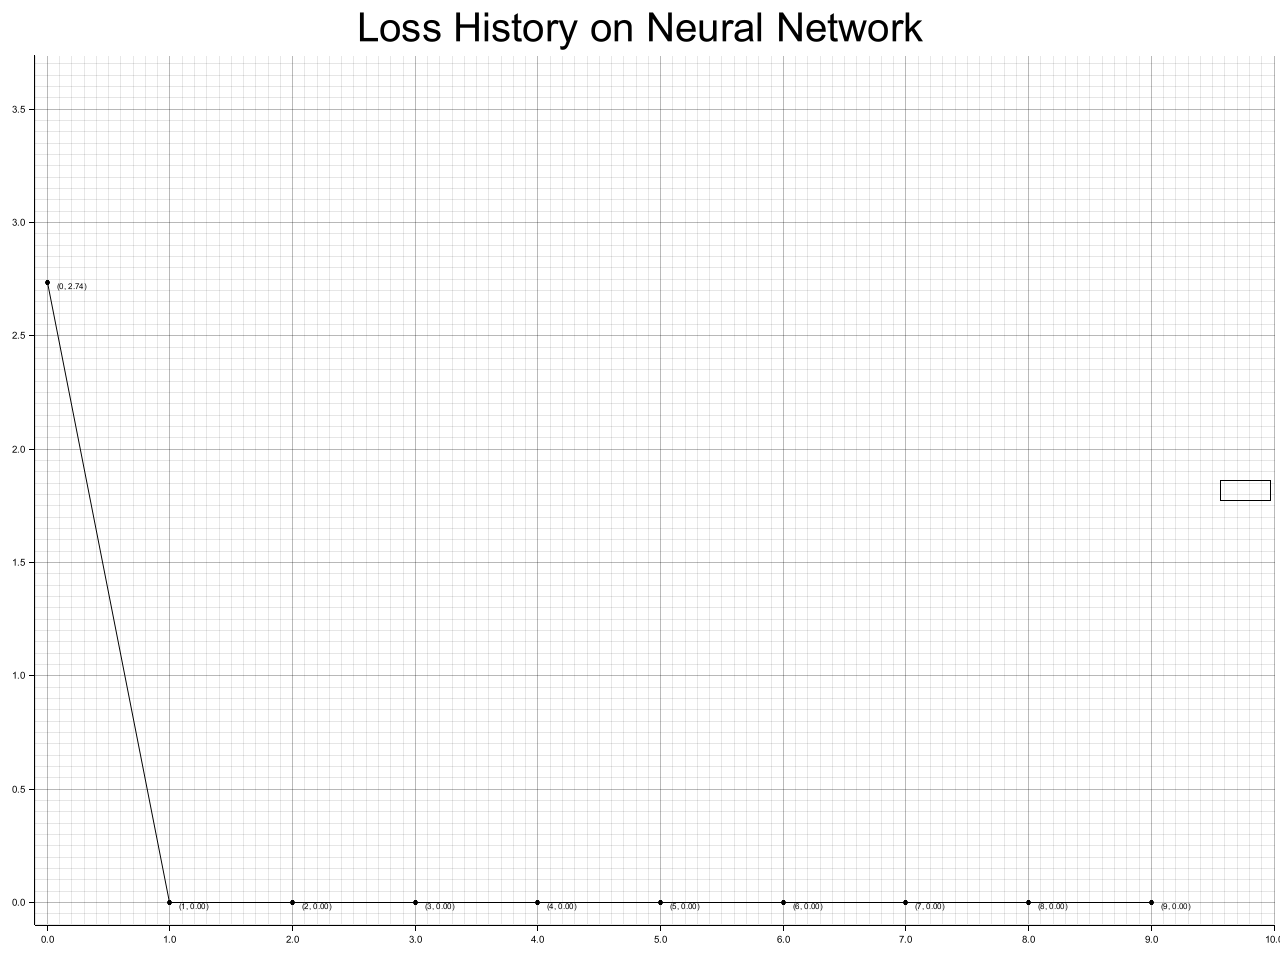
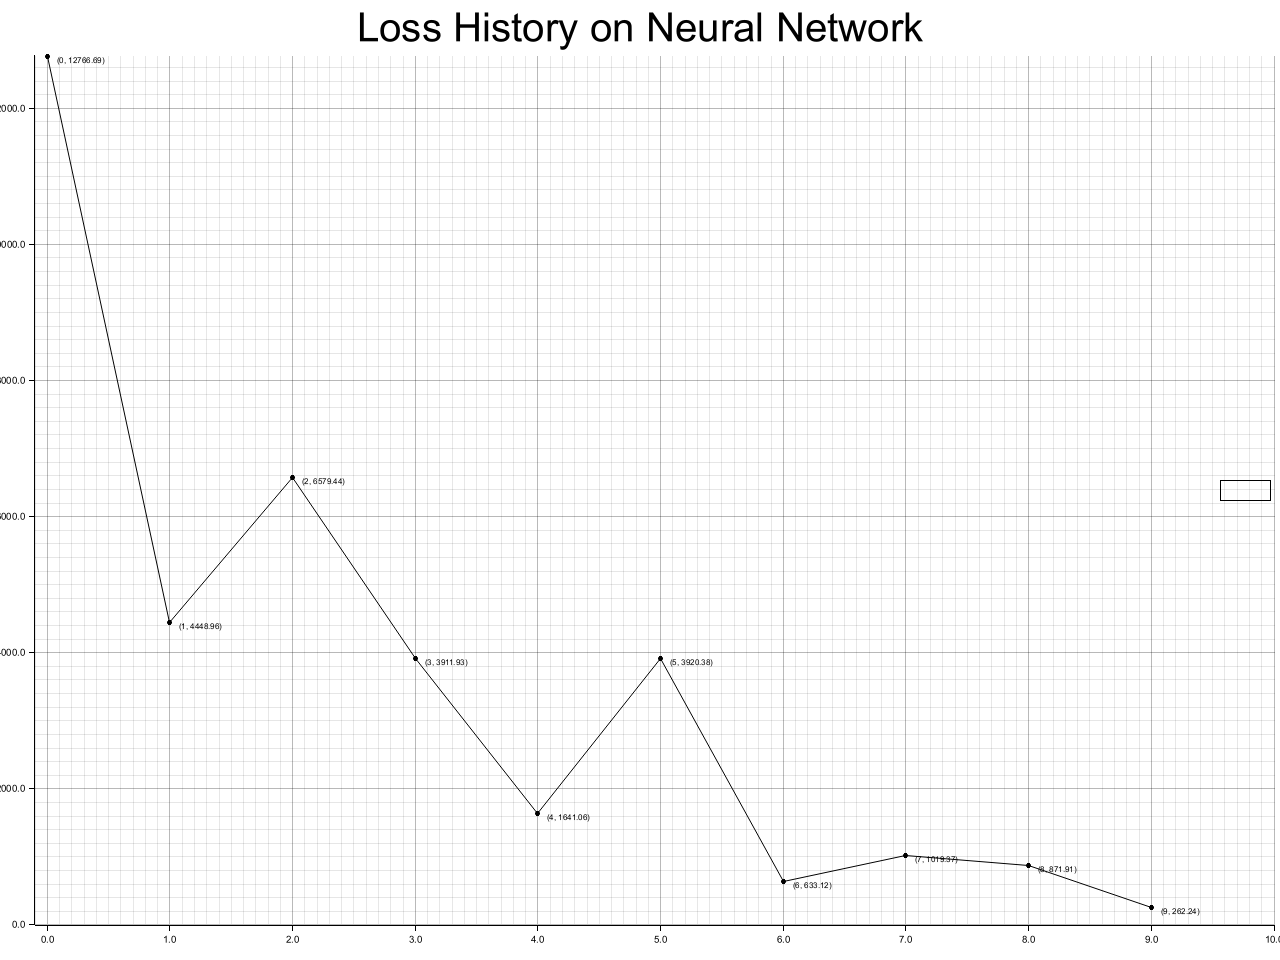
Added SOFTMAX

Changed region(s): [[0.0, 0.0625, 1.0, 0.9688]]

diff --git a/src/network/activations.rs b/src/network/activations.rs
@@ -1,6 +1,8 @@
 use std::f32::consts::E;
 use serde::{Deserialize, Serialize};
 
+use super::{matrix::Matrix, input::Input};
+
 #[derive(Clone)]
 pub struct Activation<'a>{
     pub function: &'a dyn Fn(f32) -> f32,
@@ -12,15 +14,46 @@ pub enum Activations{
     SIGMOID,
     TANH,
     RELU,
-    LEAKYRELU
+    LEAKYRELU,
+    SOFTMAX
 }
 impl Activations{
-    pub fn get_function(&self) -> Activation{
+    fn get_function(&self) -> Option<Activation>{
         return match self{
-            Activations::SIGMOID => SIGMOID,
-            Activations::TANH => TANH,
-            Activations::RELU => RELU,
-            Activations::LEAKYRELU => LEAKY_RELU
+            Activations::SIGMOID => Some(SIGMOID),
+            Activations::TANH => Some(TANH),
+            Activations::RELU => Some(RELU),
+            Activations::LEAKYRELU => Some(LEAKY_RELU),
+            _ => None
+        };
+    }
+    pub fn apply_fn(&self, mut data: Matrix) -> Matrix {
+        match self{
+            Activations::SIGMOID | Activations::TANH | Activations::RELU | Activations::LEAKYRELU => {
+                return data.map(self.get_function().unwrap().function);
+            },
+            Activations::SOFTMAX => { 
+                let exp_logits: Vec<f32> = data.to_param()
+                    .iter()
+                    .map(|&x| x.exp()).collect();
+                let sum_exp: f32 = exp_logits.iter().sum();
+                return Matrix::from_sized(exp_logits.iter().map(|x| x / sum_exp).collect::<Vec<f32>>(), data.rows, data.columns)
+            }
+        };
+    }
+    pub fn apply_derivative(&self, mut data: Matrix) -> Matrix {
+        match self{
+            Activations::SIGMOID | Activations::TANH | Activations::RELU | Activations::LEAKYRELU => {
+                return data.map(self.get_function().unwrap().derivative);
+            },
+            Activations::SOFTMAX => { 
+                let softmax_output = data.to_param()
+                    .iter()
+                    .zip(data.to_param().iter().map(|&x| 1.0 - x))
+                    .map(|(s,ds)| s * ds)
+                    .collect();
+                return Matrix::from_sized(softmax_output, data.rows, data.columns);
+            }
         };
     }
 }

diff --git a/src/main.rs b/src/main.rs
@@ -4,6 +4,7 @@ use triton_grow::{network::{network::Network, activations::Activations, layer::{
 fn main() {
     //Convolutional Example
     //
+    /*
     let mut inputs: Vec<&dyn Input> = vec![];
     let mut outputs: Vec<Vec<f32>>;
     let mut true_outputs: Vec<Vec<f32>> = vec![];
@@ -16,12 +17,12 @@ fn main() {
     println!("Done Generating MNIST");
 
     outputs = to_categorical(outputs_uncat);
-    for i in 0..3{
+    for i in 0..5{
         inputs.push(&inputs_undyn[i]);
         true_outputs.push(outputs[i].clone());
     }
 
-    let mut network = Network::new(2);
+    let mut network = Network::new(5);
 
     network.add_layer(LayerTypes::DENSE(784, Activations::RELU, 0.1));
     network.add_layer(LayerTypes::DENSE(64, Activations::RELU, 0.1));
@@ -32,14 +33,14 @@ fn main() {
 
     network.fit(&inputs, &true_outputs, 10);
     for i in 0..inputs.len(){
-        println!("{:?}", network.predict(inputs[i]));
+        println!("predicted: {:?} \n\n actual: {:?}\n", network.predict(inputs[i]), true_outputs[i]);
     }
 
     network.plot_loss_history("mnist_loss.png");
-    
+    */
     //Dense Example
     //
-    /*let mut inputs: Vec<&dyn Input> = vec![];
+    let mut inputs: Vec<&dyn Input> = vec![];
     let input_1 = vec![1.0,1.0];
     let input_2 = vec![vec![0.0], vec![1.0]];
     let input_3 = Matrix::from(vec![vec![1.0],vec![0.0]]);
@@ -56,7 +57,7 @@ fn main() {
 
     new_net.add_layer(LayerTypes::DENSE(2, Activations::SIGMOID, 0.1));
     new_net.add_layer(LayerTypes::DENSE(3, Activations::SIGMOID, 0.1));
-    new_net.add_layer(LayerTypes::DENSE(1, Activations::SIGMOID, 0.1));
+    new_net.add_layer(LayerTypes::DENSE(1, Activations::SOFTMAX, 0.1));
 
     //new_net.set_seed("teller");
     //new_net.set_seed("I said");
@@ -67,5 +68,5 @@ fn main() {
     println!("1 and 0: {:?}", new_net.predict(&vec![1.0,0.0])[0]);
     println!("0 and 1: {:?}", new_net.predict(&vec![0.0,1.0])[0]);
     println!("1 and 1: {:?}", new_net.predict(&vec![1.0,1.0])[0]);
-    println!("0 and 0: {:?}", new_net.predict(&vec![0.0,0.0])[0]);*/
+    println!("0 and 0: {:?}", new_net.predict(&vec![0.0,0.0])[0]);
 }

diff --git a/src/network/layer/dense.rs b/src/network/layer/dense.rs
@@ -31,7 +31,7 @@ pub struct Dense{
 impl Dense{
     pub fn new(layers: usize, layer_cols_before: usize, activation: Activations, learning_rate: f32, seed: &Option<String>, input_size: usize) -> Dense{
         let distribution: Distributions = match activation{
-            Activations::RELU | Activations::LEAKYRELU => Distributions::He(input_size),
+            Activations::RELU | Activations::LEAKYRELU | Activations::SOFTMAX => Distributions::He(input_size),
             Activations::TANH | Activations::SIGMOID => Distributions::Xavier(input_size, layers),
         };
         let mut res = Dense { 
@@ -75,8 +75,7 @@ impl Layer for Dense{
     ///Moves the DNN forward through the weights and biases of this current layer
     ///Maps an activation function and then returns the resultant Matrix
     fn forward(&mut self, inputs: &Box<dyn Input>) -> Box<dyn Input> {
-        self.data = (self.weights.clone() * &Matrix::from(inputs.to_param().to_param_2d()).transpose() + &self.biases)
-            .map(self.activation_fn.get_function().function);
+        self.data = self.activation_fn.apply_fn(self.weights.clone() * &Matrix::from(inputs.to_param().to_param_2d()).transpose() + &self.biases);
 
         Box::new(self.data.clone().transpose())
     }
@@ -124,7 +123,7 @@ impl Layer for Dense{
     }
 
     fn update_gradient(&self) -> Box<dyn Input> {
-        Box::new(self.data.clone().map(self.activation_fn.get_function().derivative))
+        Box::new(self.activation_fn.apply_fn(self.data.clone()))
     }
 
     /*fn backward(&mut self, inputs: &Matrix, gradients: &Matrix, errors: &Matrix, layer_prev: &Matrix, layer_prev_bias: &Matrix) -> (Matrix, Matrix, Matrix, Matrix){

diff --git a/src/network/layer/conv.rs b/src/network/layer/conv.rs
@@ -31,7 +31,7 @@ pub struct Convolutional{
 impl Convolutional{
     pub fn new(filters: usize, kernel_size: (usize, usize), input_shape: (usize, usize, usize), stride: usize, activation_fn: Activations, learning_rate: f32, seed: &Option<String>, input_size: usize) -> Convolutional {
         let distribution = match activation_fn {
-            Activations::TANH | Activations::SIGMOID => Distributions::Xavier(input_size, kernel_size.0 * kernel_size.1),
+            Activations::TANH | Activations::SIGMOID | Activations::SOFTMAX => Distributions::Xavier(input_size, kernel_size.0 * kernel_size.1),
             Activations::RELU | Activations::LEAKYRELU => Distributions::He(input_size)
         };
         let mut res = Convolutional{
